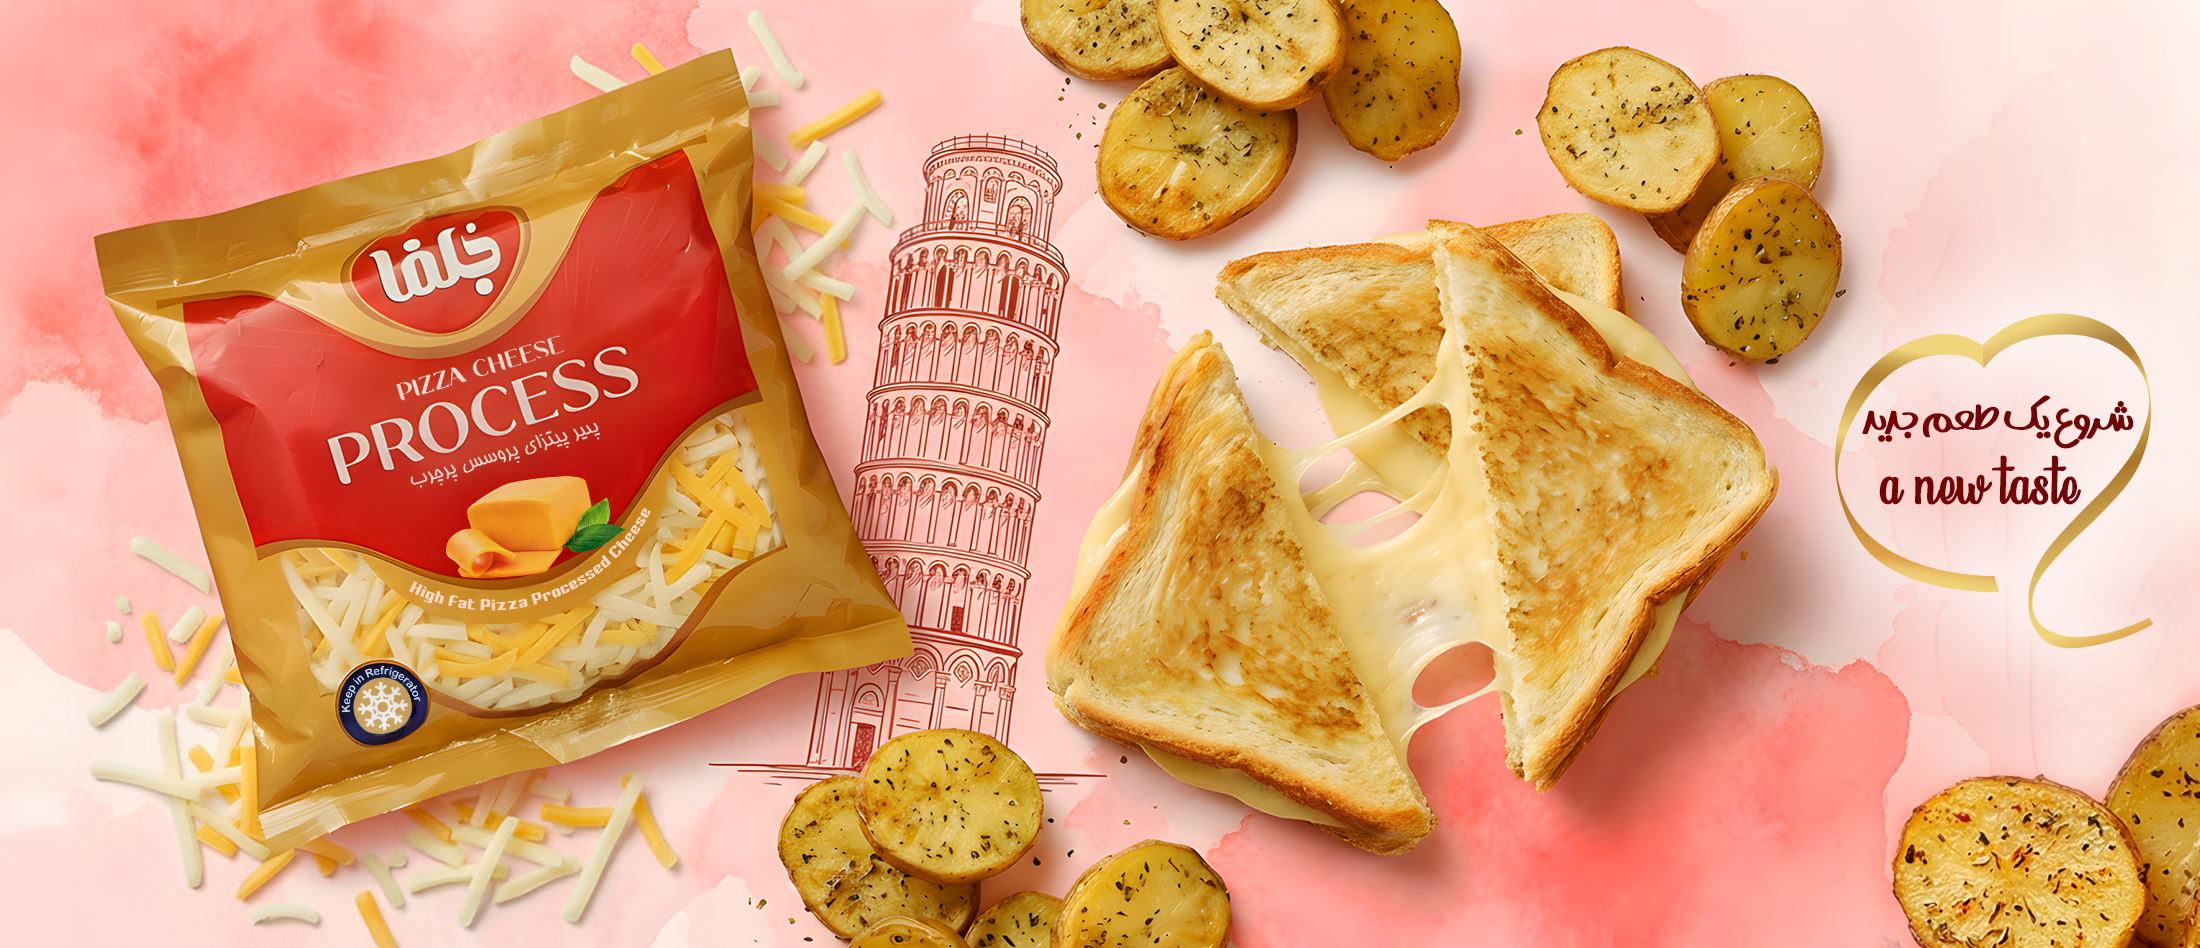
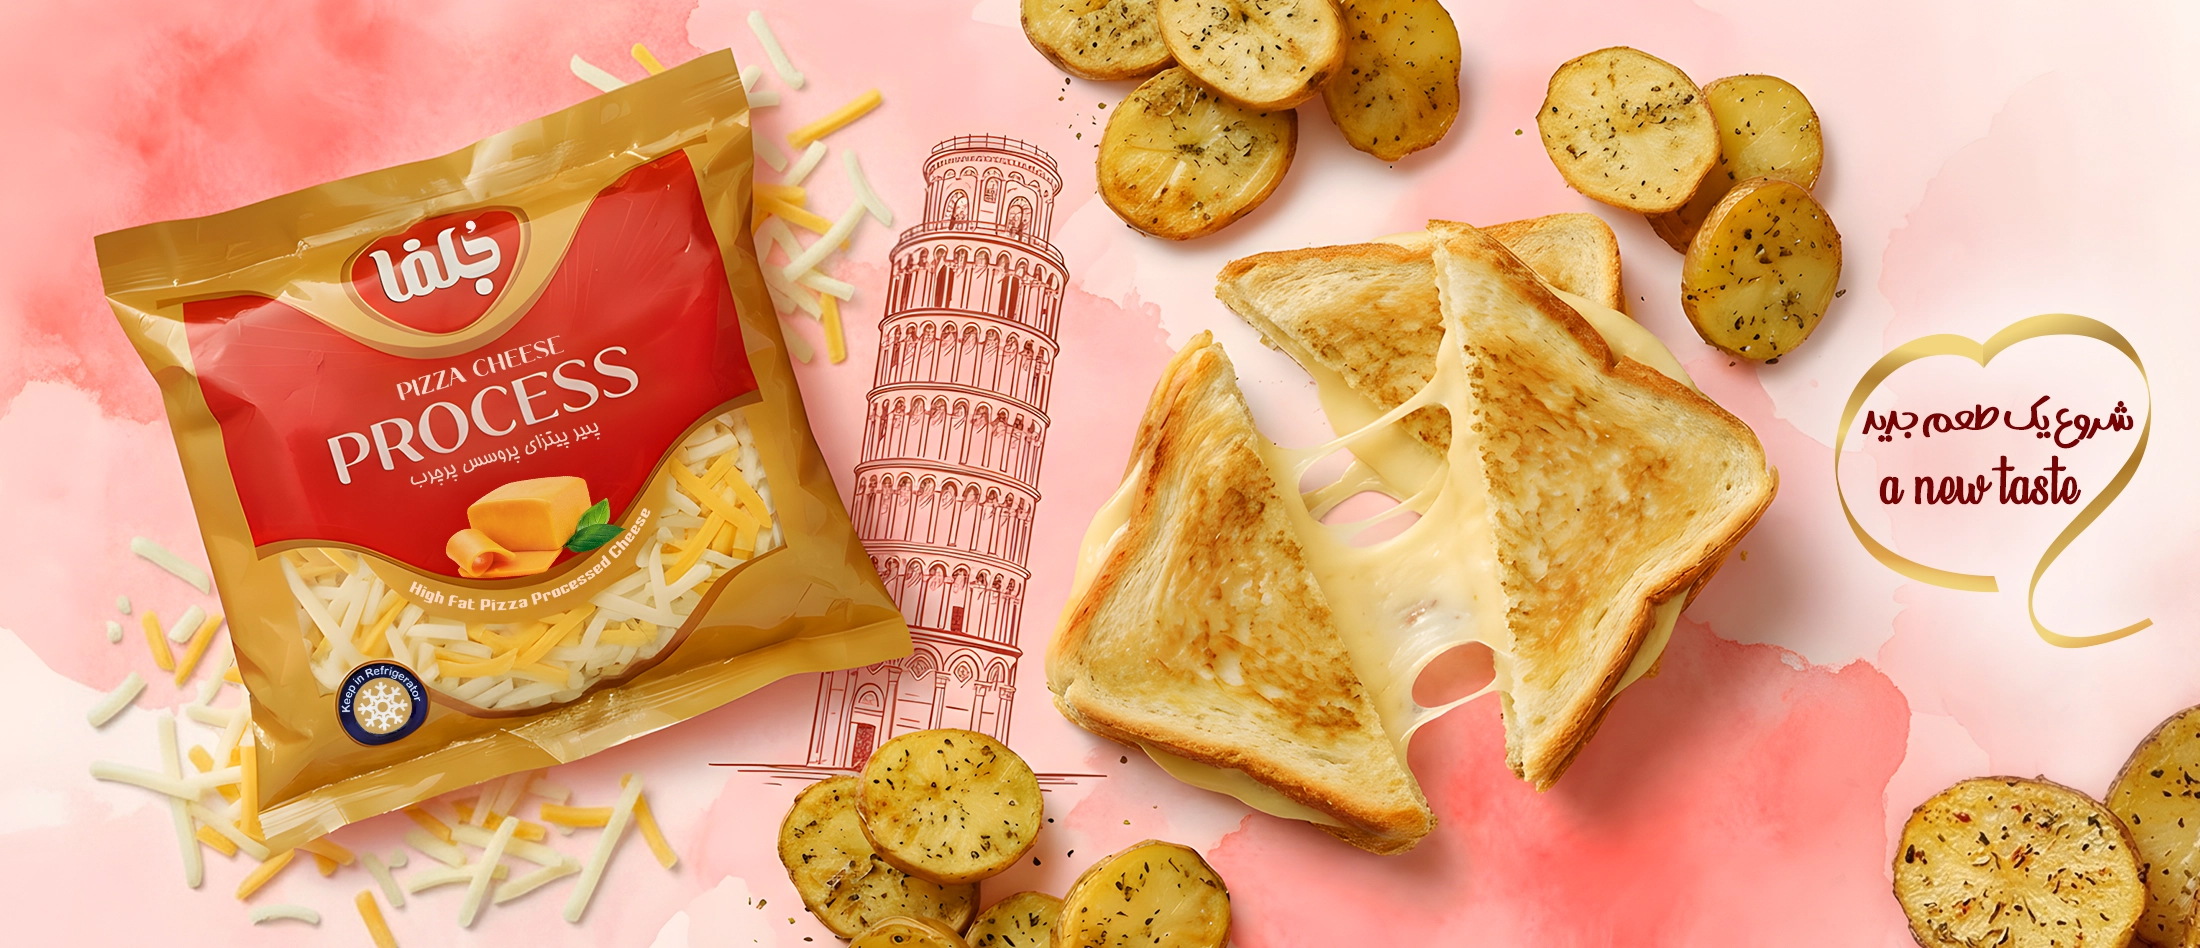
Style update

diff --git a/src/app/styles/heroSlider.module.css b/src/app/styles/heroSlider.module.css
@@ -282,3 +282,47 @@
     font-size: 0.95rem;
   }
 }
+
+@media (max-width: 450px) {
+  .hero {
+    /* 1. حل مشکل فاصله زیاد از بالا */
+    /* فاصله بالا را صفر میکنیم. اگر هنوز فاصله زیاد بود، عدد منفی بدهید (مثلا -10px) */
+    margin-top: -50px !important; 
+    margin-bottom: 15px; /* کمی فاصله از پایین برای جدا شدن از متنها */
+    margin-left: auto;
+    margin-right: auto;
+
+    /* 2. پر کردن عرض صفحه */
+    /* در گوشیهای خیلی کوچک، بهتر است بنر تقریبا کل عرض را بگیرد */
+    width: 96vw; 
+    
+    /* 3. اصلاح ارتفاع بنر در گوشی کوچک */
+    /* در موبایل کوچک، نسبت 16/9 خیلی کوتاه میشود. 
+       آن را به 4/3 (کمی بلندتر) یا 1/1 (مربع) تغییر دهید تا بنر "تو پر" دیده شود */
+    aspect-ratio: 4 / 1.8; 
+
+    /* تنظیمات ظاهری */
+    border-radius: 12px;
+    padding: 0;
+    box-shadow: 0 4px 15px rgba(0, 0, 0, 0.1);
+  }
+
+  /* تنظیمات متن و دکمه برای اینکه در سایز کوچک به هم نریزند */
+  .content h1 {
+    font-size: 1.4rem; /* سایز تیتر مناسب موبایل کوچک */
+    margin-bottom: 10px;
+  }
+  
+  .content p {
+    font-size: 0.85rem;
+    line-height: 1.5;
+  }
+
+  /* اطمینان از اینکه عکس تمام کادر جدید را پر میکند */
+  .slide {
+    background-size: cover;
+    background-position: center center;
+  }
+}
+
+